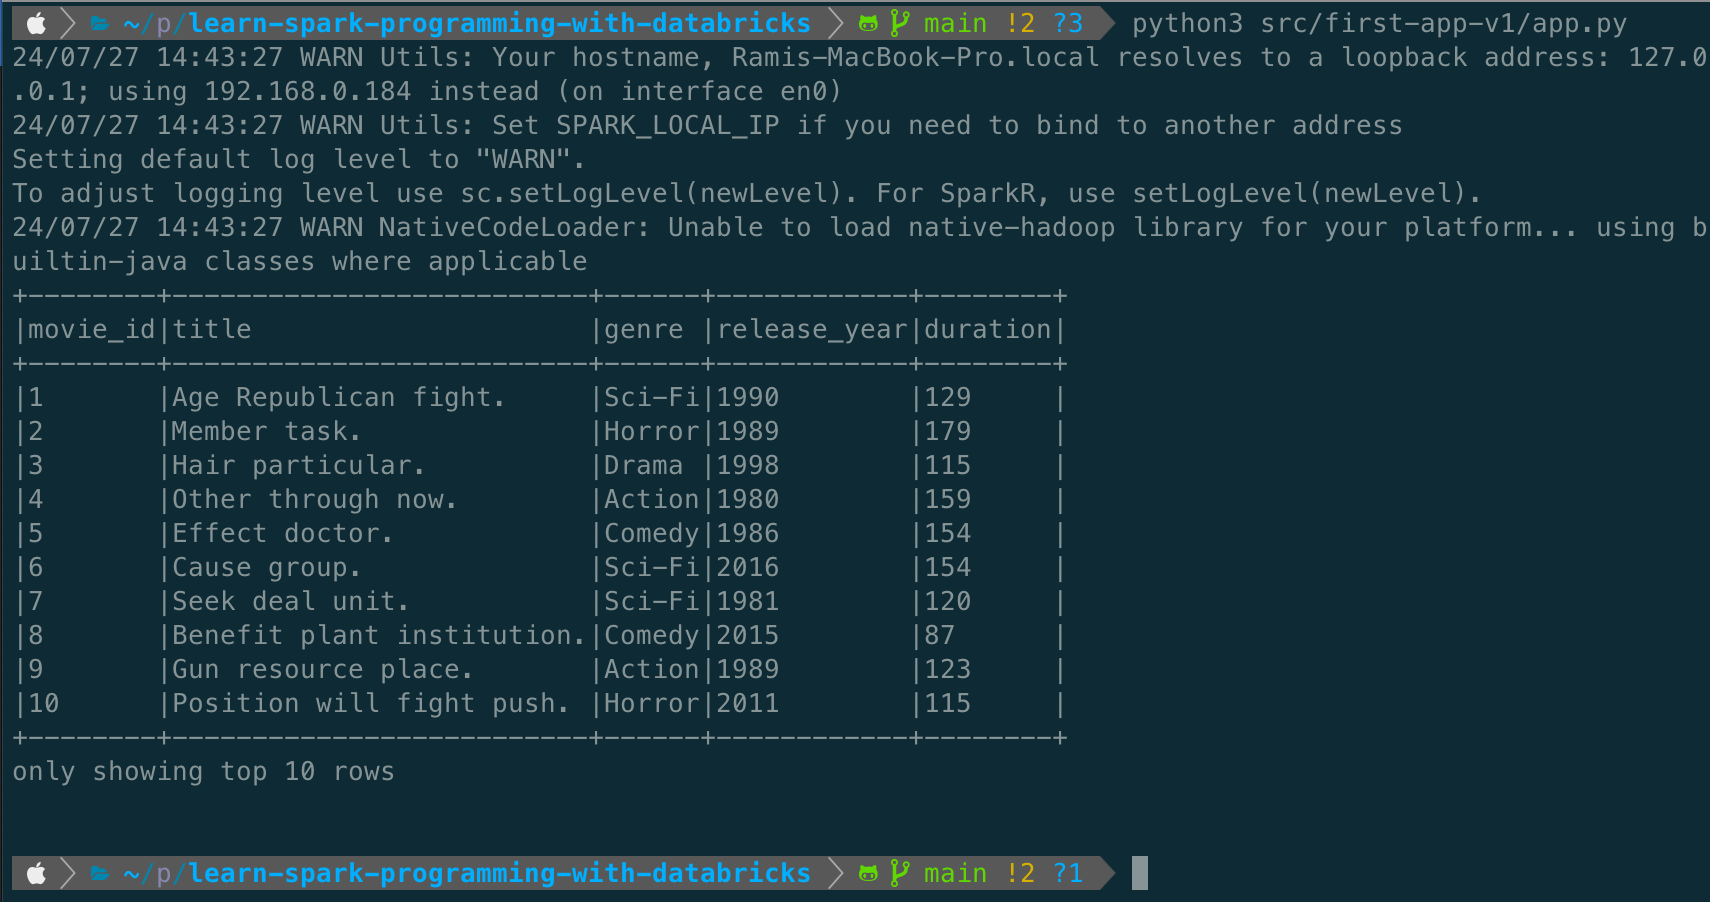
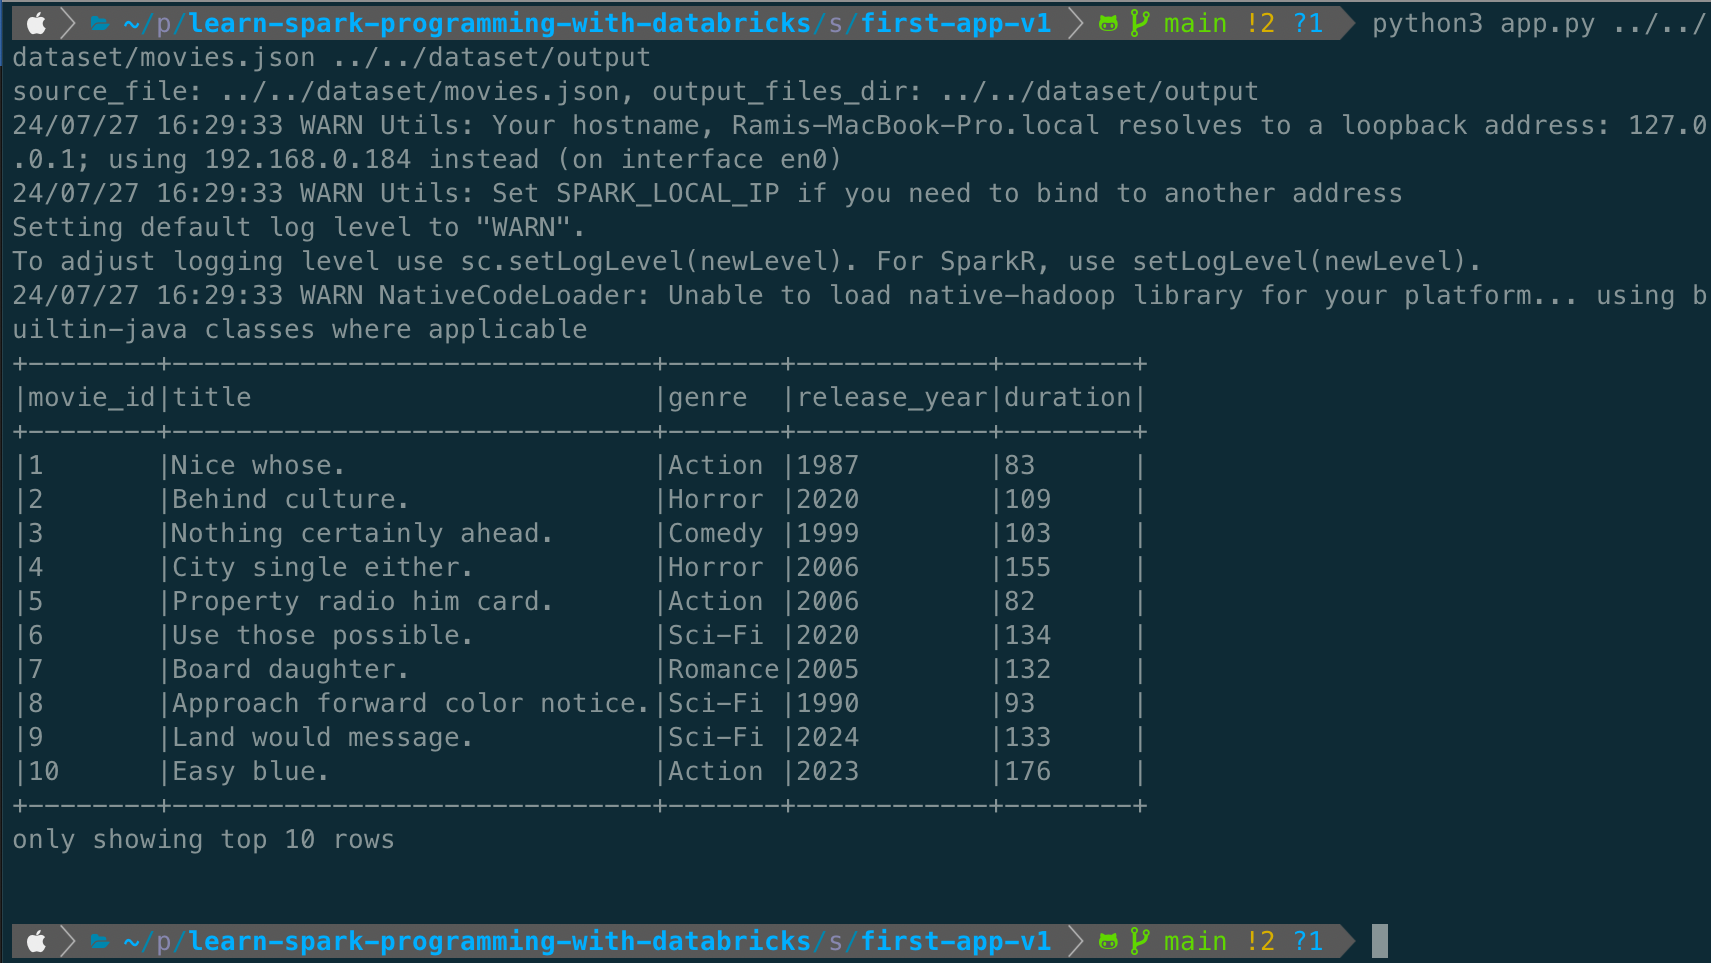
Updated first-app-v1 execution steps

diff --git a/src/first-app-v1/app.py b/src/first-app-v1/app.py
@@ -3,6 +3,10 @@ from pyspark.sql.types import *
 from pyspark.sql.functions import *
 
 if __name__ == "__main__":
+    source_file = sys.argv[1]
+    output_files_dir = sys.argv[2]
+    print(f"source_file: {source_file}, output_files_dir: {output_files_dir}")
+    
     # Create a spark session
     spark = SparkSession \
         .builder \
@@ -24,7 +28,7 @@ if __name__ == "__main__":
         .read \
         .format("json") \
         .schema(schema) \
-        .load("../dataset/movies.json")
+        .load(source_file)
 
     movies_df.show(10, truncate=False)
 
@@ -32,5 +36,5 @@ if __name__ == "__main__":
     movies_df.write \
         .format("parquet") \
         .mode("overwrite") \
-        .option("path", "../dataset/output") \
+        .option("path", output_files_dir) \
         .save()

diff --git a/docs/implementation.md b/docs/implementation.md
@@ -15,9 +15,13 @@ Details of the code:
 
 ```
 cd learn-spark-programming-with-databricks
-pip install -r src/requirements.txt
-python3 src/first-app-v1/app.py
+cd src
+pip install -r requirements.txt
+cd first-app-v1
+python3 app.py ../../dataset/movies.json ../../dataset/output
 ```
 
 ![First Application](../images/first-app-v1.png)
+
+
 
